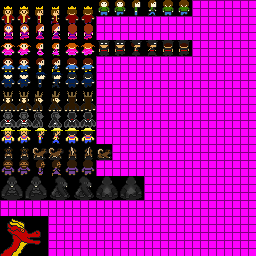
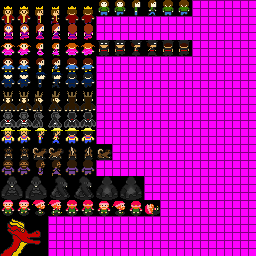
Update

Changed region(s): [[0.0, 0.7812, 0.625, 0.8438]]

diff --git a/src/javajesus/entities/npcs/characters/Storyteller.java b/src/javajesus/entities/npcs/characters/Storyteller.java
@@ -1,0 +1,75 @@
+package javajesus.entities.npcs.characters;
+
+import javajesus.MessageHandler;
+import javajesus.entities.Entity;
+import javajesus.entities.npcs.NPC;
+import javajesus.graphics.SpriteSheet;
+import javajesus.level.Level;
+
+import java.awt.Color;
+
+/*
+ * Rancher Storyteller
+ */
+public class Storyteller extends NPC {
+
+	// dimensions Storyteller
+	private static final int WIDTH = 16, HEIGHT = 16;
+
+	/**
+	 * Creates Rancher Storyteller
+	 * @param level the level he is on
+	 * @param x the x coord
+	 * @param y the y coord
+	 */
+	public Storyteller(Level level, int x, int y) {
+		super(level, "Storyteller", x, y, 1, WIDTH, HEIGHT, 500, null, 0, 16, "", 0);
+		setSpriteSheet(SpriteSheet.characters);
+	}
+
+	/**
+	 * Storyteller's Dialogue options
+	 */
+	protected void doDialogue() {
+		switch (random.nextInt(4)) {
+		case 0: {
+			MessageHandler.displayText(getName() + ": Hello!", Color.black);
+			return;
+		}
+		case 1: {
+			MessageHandler.displayText(getName() + ": Very Nice!", Color.white);
+			return;
+		}
+		case 2: {
+			MessageHandler.displayText(getName() + ": No more stories for you.", Color.white);
+			return;
+		}
+		case 3: {
+			MessageHandler.displayText(getName() + ": P-please d-d-don't d-doink me officer!", Color.white);
+			return;
+		}
+		default: {
+			MessageHandler.displayText(getName() + ": Thejas.", Color.white);
+			return;
+		}
+		}
+	}
+
+	@Override
+	public int getStrength() {
+		// TODO Auto-generated method stub
+		return 0;
+	}
+
+	@Override
+	public int getDefense() {
+		// TODO Auto-generated method stub
+		return 0;
+	}
+
+	@Override
+	public byte getId() {
+		// TODO Auto-generated method stub
+		return Entity.BAUTISTA;
+	}
+}

diff --git a/src/javajesus/Launcher.java b/src/javajesus/Launcher.java
@@ -267,7 +267,6 @@ public class Launcher extends Canvas implements IGameLogic {
 			createBufferStrategy(3);
 			return;
 		}
-
 		// render the background tiles
 		level.render(screen);
 
@@ -340,7 +339,6 @@ public class Launcher extends Canvas implements IGameLogic {
 		g.drawString(LAST_UPDATED, 5, JavaJesus.WINDOW_HEIGHT - 30);
 		g.dispose();
 		bs.show();
-
 	}
 
 	/**

diff --git a/src/javajesus/gui/ControlsGUI.java b/src/javajesus/gui/ControlsGUI.java
@@ -1,3 +1,7 @@
+/**
+ * @author derek
+ * Description: Displays the Controls Information Page, accessed from the Main Menu.
+ */
 package javajesus.gui;
 
 import java.awt.CardLayout;
